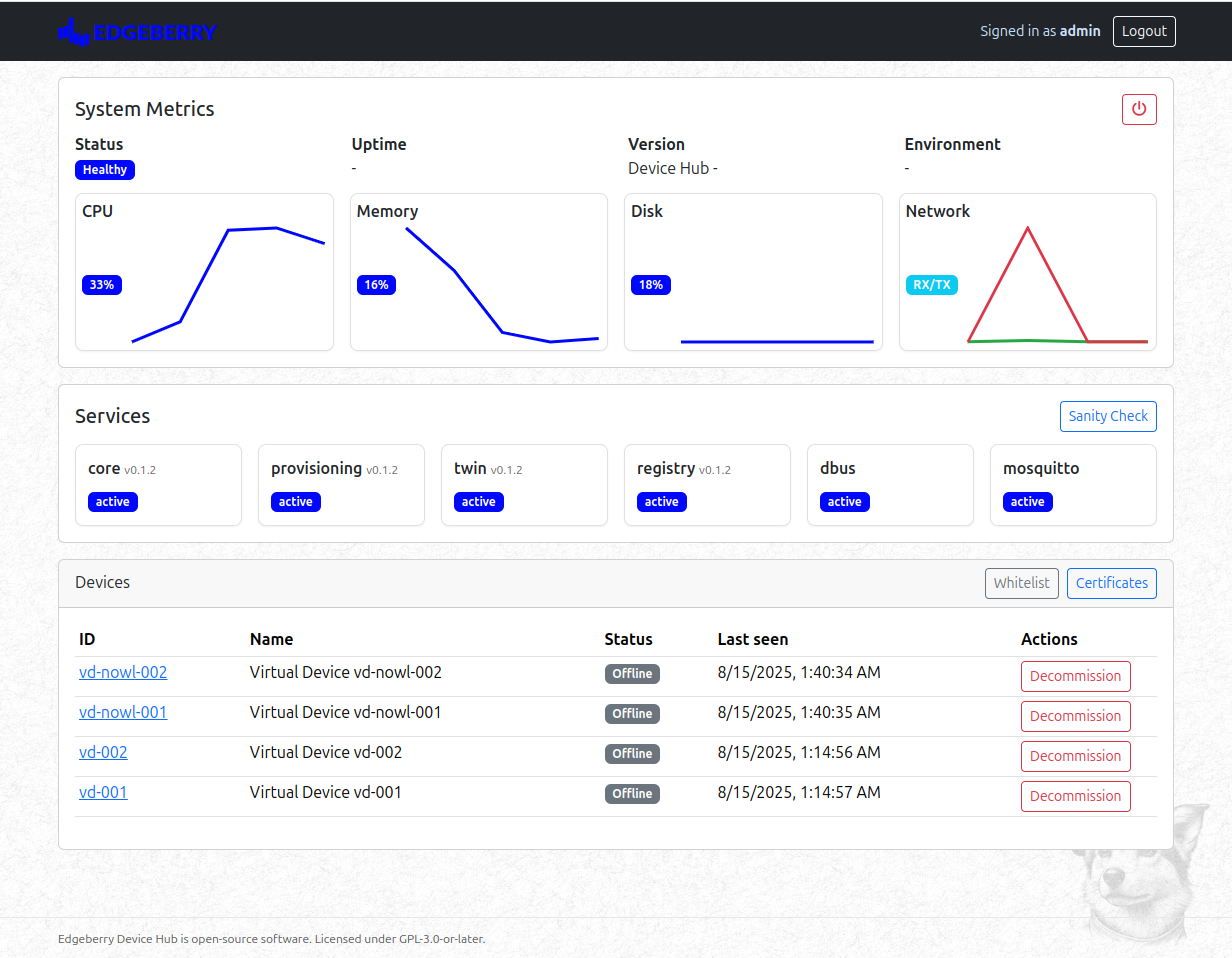
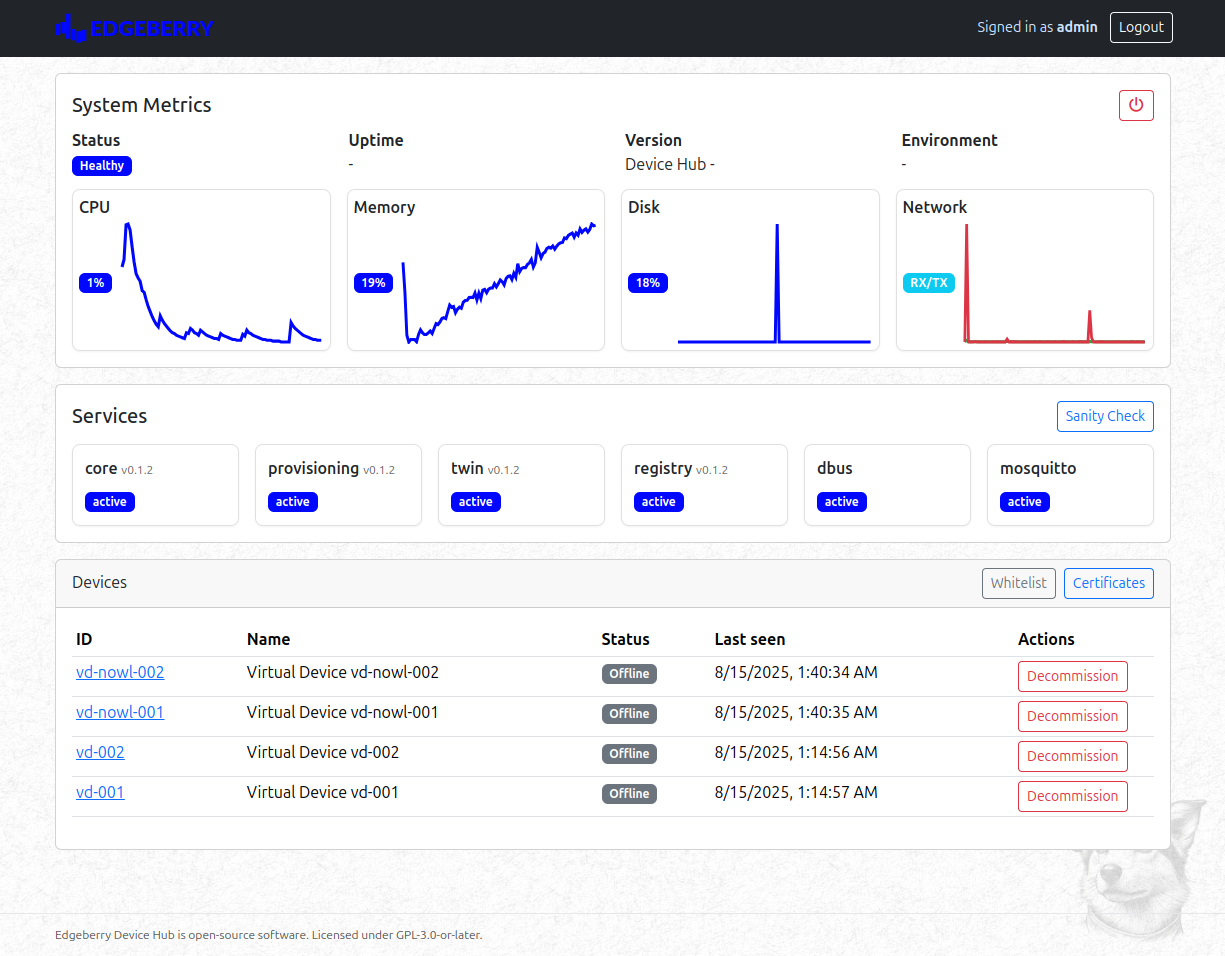
Documentation improvements

diff --git a/documentation/alignment.md b/documentation/alignment.md
@@ -2,7 +2,7 @@
 
 This file defines the foundational philosophy, design intent, and system architecture for the Edgeberry Device Hub. It exists to ensure that all contributors—human or artificial—are aligned with the core values and structure of the project.
 
-**Last updated:** 2025-08-16 21:24 CET
+**Last updated:** 2025-08-17 10:51 CEST
 
 ## Alignment Maintenance
 
@@ -526,14 +526,18 @@ The Web UI is a single-page app served by `core-service` and uses React + TypeSc
 
 ### Core Components
 
-- `Navigationbar` (`ui/src/components/Navigationbar.tsx`) — top navigation; Overview is the root menu item
-- `HealthWidget` (`ui/src/components/HealthWidget.tsx`) — shows system health; tolerant to missing optional endpoints
-- `ServiceStatusWidget` (`ui/src/components/ServiceStatusWidget.tsx`) — shows microservice statuses from unified endpoint
-  - Service tiles open a modal with recent logs and Start/Restart/Stop controls. Actions are visible to everyone but disabled unless the user has the `admin` role.
-  - Display names hide the `devicehub-` prefix and `.service` suffix. The legacy `api` tile is removed (merged into core).
-- `Overview` page (`ui/src/Pages/Overview.tsx`) — contains `HealthWidget`, `ServiceStatusWidget`, and a simple devices table
-- `CertificateSettingsModal` (`ui/src/components/CertificateSettingsModal.tsx`) — admin-only modal to manage Root CA and provisioning certificates, opened from Overview
-- `WhitelistModal` (`ui/src/components/WhitelistModal.tsx`) — admin-only modal to manage provisioning UUID whitelist, opened from Overview
+ - `Navigationbar` (`ui/src/components/Navigationbar.tsx`) — top navigation; Overview is the root menu item
+ - `SystemMetricsWidget` (`ui/src/components/SystemMetricsWidget.tsx`) — primary widget shown first on Overview
+   - Shows CPU, Memory, Disk, and Network metrics with compact half-height tiles and sparklines
+   - Admin-only power menu in header (power icon) opens a modal with controls to Restart All Services, Reboot, or Shutdown
+   - Restart All Services performs sequential restarts in the UI for all managed units except the legacy `devicehub-api.service`
+ - `ServiceStatusWidget` (`ui/src/components/ServiceStatusWidget.tsx`) — shows microservice statuses from unified endpoint
+   - Service tiles open a modal with recent logs and Start/Restart/Stop controls. Actions are visible to everyone but disabled unless the user has the `admin` role.
+   - Display names hide the `devicehub-` prefix and `.service` suffix. The legacy `api` tile is removed (merged into core).
+ - `HealthWidget` (`ui/src/components/HealthWidget.tsx`) — shows system health; tolerant to missing optional endpoints
+ - `Overview` page (`ui/src/Pages/Overview.tsx`) — renders `SystemMetricsWidget` first, then `ServiceStatusWidget`, plus a simple devices table
+ - `CertificateSettingsModal` (`ui/src/components/CertificateSettingsModal.tsx`) — admin-only modal to manage Root CA and provisioning certificates, opened from Overview
+ - `WhitelistModal` (`ui/src/components/WhitelistModal.tsx`) — admin-only modal to manage provisioning UUID whitelist, opened from Overview
 
 ### API Contracts (UI dependencies)
 
@@ -547,6 +551,9 @@ The Web UI is a single-page app served by `core-service` and uses React + TypeSc
   - `GET /api/version`
   - `GET /api/config/public`
   - `POST /api/diagnostics/mqtt-test` — runs the MQTT mTLS sanity script on the host; returns `{ ok, exitCode, startedAt, durationMs, stdout, stderr }`
+  - Power actions (admin-only; currently stubbed in `core-service`):
+    - `POST /api/devices/:id/actions/reboot` → `{ ok: true, message }`
+    - `POST /api/devices/:id/actions/shutdown` → `{ ok: true, message }`
 - Devices (optional placeholder in MVP):
   - `GET /api/devices` — may return `[]` or `{ devices: [] }`; UI tolerates other shapes by falling back to an empty list
  - Service controls (best-effort; may require host privileges):
@@ -566,6 +573,7 @@ The Web UI is a single-page app served by `core-service` and uses React + TypeSc
 - Caching controls: ETag disabled and strict no-cache headers applied for `/api/*` to avoid stale auth state (304) issues in the SPA.
 - Dev: `npm run dev` at repo root runs core-service and serves the UI build; set `DEV_MOSQUITTO=1` to include the broker.
  - `core-service` exposes a WebSocket endpoint at `/api/ws` for live updates (metrics, services, devices, logs).
+ - Offline assets: Font Awesome icons are bundled locally via `@fortawesome/fontawesome-free` and imported in `ui/src/main.tsx`; the CDN link was removed from `ui/index.html`.
 
 ### Device Registry & Provisioning (MVP)
 
